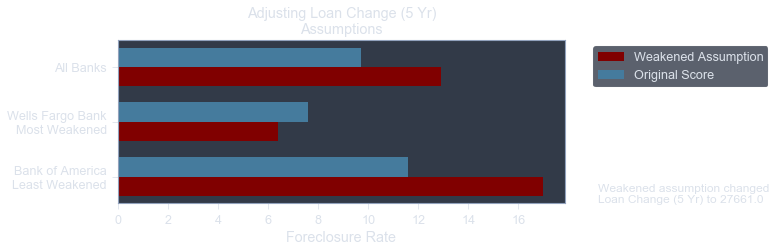
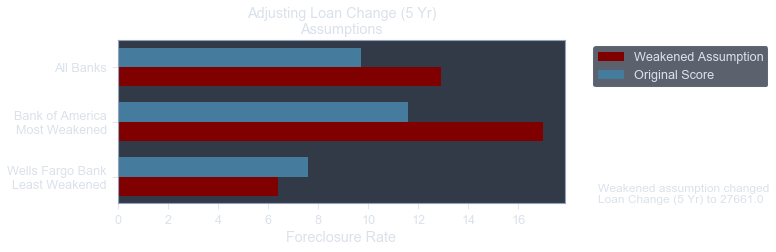
regular updates

diff --git a/Bad_Banking_Behavior/index.html b/Bad_Banking_Behavior/index.html
@@ -340,8 +340,7 @@ if (currentTheme) {
         </div>
             <h6>Model Predictions</h6>
             <p>
-                Overall, foreclosure rates are predicted to improve from 9.7% to 1.6% if all mortgage holders had a credit score of 770 and weaken to 14.1% if all mortgage holder had a credit score of 675.  The bank with the highest credit score, GMAC Mortgage, is predicted to have improved from 9.7% to 1%—a larger change than the bank with the lowest credit score, PNC Bank who is predicted to have improved from 8.8% to 3.1%.  However, PNC Bank is expected to have a larger change if credit scores were weakened to 675, from 8.8% to 13.8%, compared to GMAC mortgage’s 9.7% to 12.2%.  The worst foreclosure prediction was Bank of America, weakening from 11.6% to 17.3%.
-            </p>
+                Overall, foreclosure rates were predicted to improve from 9.7% to 1.6% if all mortgage holders had a credit score of 770 and weaken to 14.1% if all mortgage holder had a credit score of 675.  Bank of America had the largest change, improving from 11.6% to 1.9%.  Meanwhile, the bank with the lowest credit score, PNC Bank, is predicted to have the least improvement from 8.8% to 3.1%.  However, Bank of America is expected to have the largest increase in foreclosures, if credit scores were weakened to 675, from 11.6% to 17.3%, compared to GMAC Mortgage’s 9.7% to 12.2%.              </p>
         <div class="row">
             <div class="column33">
                 <img  id="Predicted_Credit_Score_Table" src="Photos/Predicted_Credit_Score_Table.png" alt="Predicted_Credit_Score_Table" style="vertical-align: middle; width:100%" />
@@ -353,14 +352,14 @@ if (currentTheme) {
         </div>
 		    <h6>Main Point</h6> 
             <p>
-                Credit score displayed a substantial relationship with foreclosures, but average credit scores differ little between banks.  GMAC Mortgage displayed a major swing when credit score assumptions improved.  Finally, the highest predicted foreclosure rate among all features analyzed in this section was when Bank of America’s credit score assumptions weakened.
+                Credit score displayed a substantial relationship with foreclosures, but average credit scores differ little between banks.  Bank of America had the most impact by changes in credit score.  Most notably, the highest predicted foreclosure rate among all features analyzed in this section was when Bank of America’s credit score assumptions weakened.  
             </p>
 		<br><br>
 
             <h2 id="Debt-to-Income">Debt-to-Income Ratio</h2>
             <h6>Data Mining</h6>
             <p>
-                Text...
+                The average DTI ratio for loans destined for foreclosure is 41.4% and 37.8% for those not destined for foreclosure.  Similar to credit score, banks did not range greatly with Flagstar Bank the highest (40.9%) and CitiMortgage the lowest (35.3%).  The best actor, CitiMortgage, had roughly as similar proportions of loan recipients with DTI ratios at 60% as it did at 20%.  A general rule of thumb in personal finance is to keep a DTI ratio of 35% or less, implying that loan recipients between 2006-2008 were exceeding conventional standards for DTI.
             </p>
         <div class="row">
             <div class="column5">
@@ -373,7 +372,7 @@ if (currentTheme) {
         </div>
             <h6>Model Predictions</h6>
             <p>
-                Text...
+                Overall, foreclosure rates were predicted to improve from 9.7% to 6.5% if all mortgage holders had a DTI ratio of and weaken to 29% and weaken to 11.8% if all mortgage holders had a DTI ratio of 47%.  Most banks were predicted to reduce foreclosures to 5%-5.5%, with Wells Fargo improving to 3.5% and Bank of America improving to only 8.9% as outliers.  Under improved assumptions, Flagstar Banks was predicted to have the largest decrease in foreclosures from 11.7% to 5.3%.  Under weakened assumptions, PNC Bank was predicted to have the largest increase in foreclosures from 8.8% to 12.5%.  Again, Bank of America was predicted to have the highest foreclosure rate of 14.8% under a DTI ratio of 47%.  However, one bank, SunTrust Mortgage, decreased its foreclosure rate with weakened assumptions, showing that not all potential recipients with DTI’s were risky.
             </p>
         <div class="row">
             <div class="column33">
@@ -386,14 +385,14 @@ if (currentTheme) {
         </div>
 		    <h6>Main Point</h6> 
             <p>
-                Text...
+                All banks were approving loans to recipients with high DTI ratios.  In general, foreclosures decreased substantially with improved DTI assumptions, but did not increase as substantially when assumptions were weakened.
             </p>
 		<br><br>
         
             <h2 id="Loan-to-Value">Loan-to-Value Ratio</h2>
             <h6>Data Mining</h6>
             <p>
-                Text...
+                LTV data displays 3 spikes around 95%, 90%, and 80%.  There is a large tail in which presumably wealthy buyers were putting down 40% (an LTV of 60%) or more for their down payment.  Loans destined to foreclose averaged a down payment of 20.5% (an LTV of 79.5%), and loans not eventually foreclosed upon averaged a down payment of 28.7% (an LTV of 71.3%).  Loans with an LTV’s of 90% and 95% displayed particularly high levels of foreclosure.  Bank LTV’s ranged from only 69.8% (GMAC Mortgage) to 74.6% (AmTrust Bank).  AmTrust Bank contained few outliers: people who made large down payments. Interestingly, Wells Fargo, the bank with the lowest foreclosure rate, had the second highest LTV.
             </p>
         <div class="row">
             <div class="column5">
@@ -406,7 +405,7 @@ if (currentTheme) {
         </div>
             <h6>Model Predictions</h6>
             <p>
-                Text...
+                Overall, foreclosure rates were predicted to improve from 9.7% to 5.3% if all mortgage holders had a LTV of 63 and weaken to 13.2% if all mortgage holder had a LTV of 84.  Under improved assumptions, SunTrust Mortgage changed the most from 10.3% to 3.4%.  Under weakened assumptions, Bank of America changed the most from 11.6% to 16.4% - again, the worst foreclosure rate.  SunTrust Bank was the only one to improve (slightly) as LTV increased.
             </p>
         <div class="row">
             <div class="column33">
@@ -419,14 +418,14 @@ if (currentTheme) {
         </div>
 		    <h6>Main Point</h6> 
             <p>
-                Text...
+                LTV was the second most impactful feature analyzed in this document after credit score.  Bank of America increased in foreclosures more than any other bank to an extremely high rate under weakened assumptions.
             </p>
 		<br><br>
 
             <h2 id="Median-Household-Income">Median Household Income</h2>
             <h6>Data Mining</h6>
             <p>
-                Text...
+                Median household income at the 3-digit zip code does not necessarily reflect the income of the loan recipient but does indicate whether banks are focusing their loan efforts in poorer or wealthier areas.  The difference between the average income of loans destined for foreclosure ($48,204) was very close to those that did not foreclose ($48,797).  Between banks, income only ranged from $47,264 (SunTrust Mortgage) to $49,491 (CitiMortgage).
             </p>
         <div class="row">
             <div class="column5">
@@ -439,7 +438,7 @@ if (currentTheme) {
         </div>
             <h6>Model Predictions</h6>
             <p>
-                Text...
+                Due to low data variation, median household income was adjusted only slightly from an improved assumption of $53,615 to a weakened assumption of $43,298.  Perhaps, because a $10,000 income difference is too small, banks overall did not reduce predicted foreclosures under improved assumptions or increase foreclosure under weakened assumptions.
             </p>
         <div class="row">
             <div class="column33">
@@ -450,9 +449,13 @@ if (currentTheme) {
                 <img  id="Predicted_MHI_Worst_Bar" src="Photos/Predicted_MHI_Worst_Bar.png" alt="Predicted_MHI_Worst_Bar" style="width:100%" />        
             </div>
         </div>
+		    <h6>Main Point</h6> 
+            <p>
+                Foreclosure predictions seem random: only slightly change and often in the wrong direction.  This could be related to two issues:  1) there is little correlation between median household income at the 3-digit zip code, and/or 2) there is little data variation in this feature.  Given the latter potential explanation, I adjusted the assumptions to the maximum (an income of $101,651) and the minimum ($28,832).
+            </p>
             <h6>Best/Worst-Case Scenerios</h6>
             <p>
-                Text...
+                After adjusting assumptions to the richest region ($101,651) and the poorest region ($28,832), the predictions begin looking more like one would expect.  Emphasizing the highest region is predicted to decrease foreclosures from 9.7% to 4.9%, although emphasizing the poorest region is not predicted to change foreclosures greatly (from 9.7% to 9.9%).
             </p>
         <div class="row">
             <div class="column33">
@@ -463,16 +466,12 @@ if (currentTheme) {
                 <img  id="Predicted_MHI_Worst_Bar_Weakest" src="Photos/Predicted_MHI_Worst_Bar_Weakest.png" alt="Predicted_MHI_Worst_Bar_Weakest" style="width:100%" />        
             </div>
         </div>
-		    <h6>Main Point</h6> 
-            <p>
-                Text...
-            </p>
 		<br><br>
 
-            <h2 id="Loan-Change">Loan Change Ratio</h2>
+            <h2 id="Loan-Change">Loan Change</h2>
             <h6>Data Mining</h6>
             <p>
-                Text...
+                Banks increasing the total value of their loans over 1 year did not correspond with lower foreclosures.  However, there appears to be a minor effect among banks increasing their loans over 5 years; loans destined for foreclosure on average increased $63,530 over 5 years compared to a $61,1932 increase in non-foreclosed loans.  There are dramatic bank differences in loan changes with AmTrust increasing only $34,664 over 5 years and Well Fargo increasing $96,423.
             </p>
         <div class="row">
             <div class="column5">
@@ -494,7 +493,7 @@ if (currentTheme) {
         </div>
             <h6>Model Predictions</h6>
             <p>
-                Text...
+                Under improved assumptions, 1 year loan changes increased $2,292 and 5 year loan changes increased $37,980, while overall foreclosure rates were predicted to improve from 9.7% to 7.9%.  Under weakened assumptions, 1 year loan changes increased $27,661 and 5 year loan changes increased $86,358, while overall foreclosure rates were predicted to decline from 9.7% to 12.9%.  Wells Fargo decreased in foreclosures the most from 7.6% to 3.6%, while Bank of America increased in foreclosures the most from 11.6% to 17%.
             </p>
         <div class="row">
             <div class="column33">
@@ -509,7 +508,7 @@ if (currentTheme) {
         </div>
 		    <h6>Main Point</h6> 
             <p>
-                Text...
+                Changes in loans vary across banks more than any other feature examined in this document.  Likewise, predicted changes in foreclosure varied greatly between banks.  Wells Fargo Bank substantially decreased foreclosures under improved assumptions but also slightly decreased foreclosures under weakened assumptions.  Overall, changes in loans over time impacted foreclosures more than median household income at 3-digit zip codes but less than the other features examined in this document.
             </p>
 		<br><br>
 
